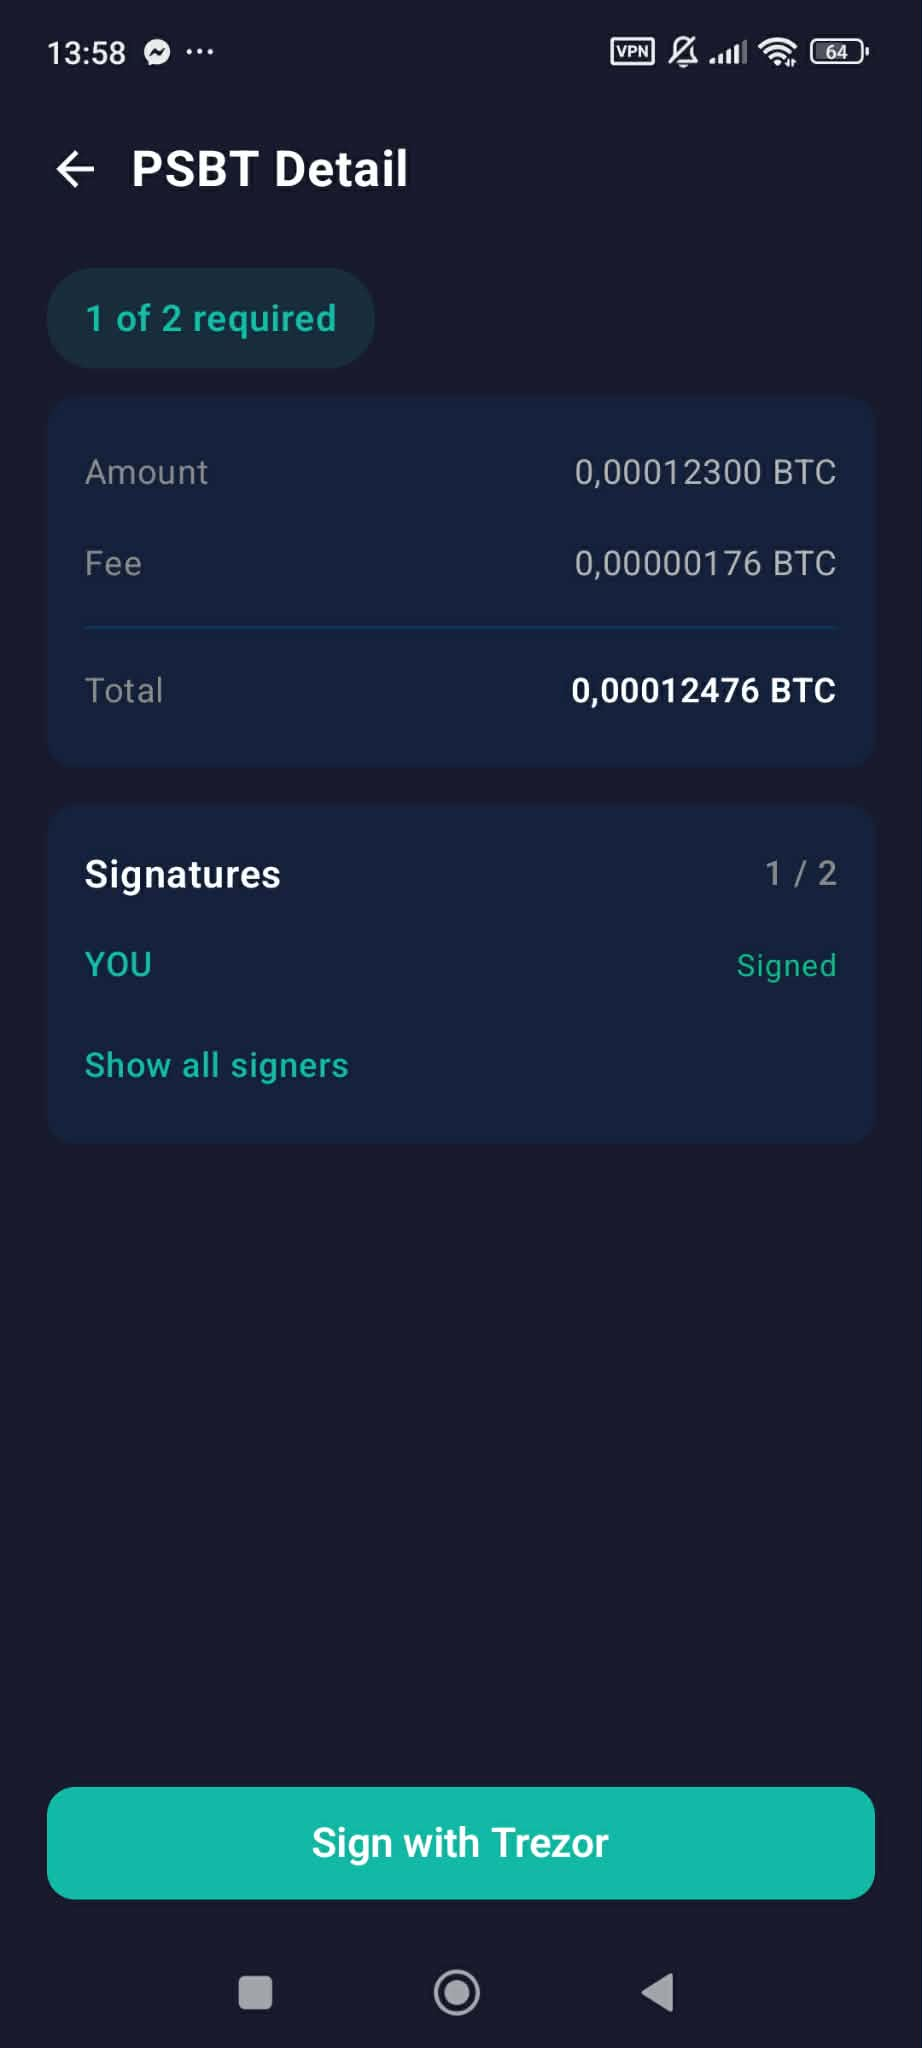
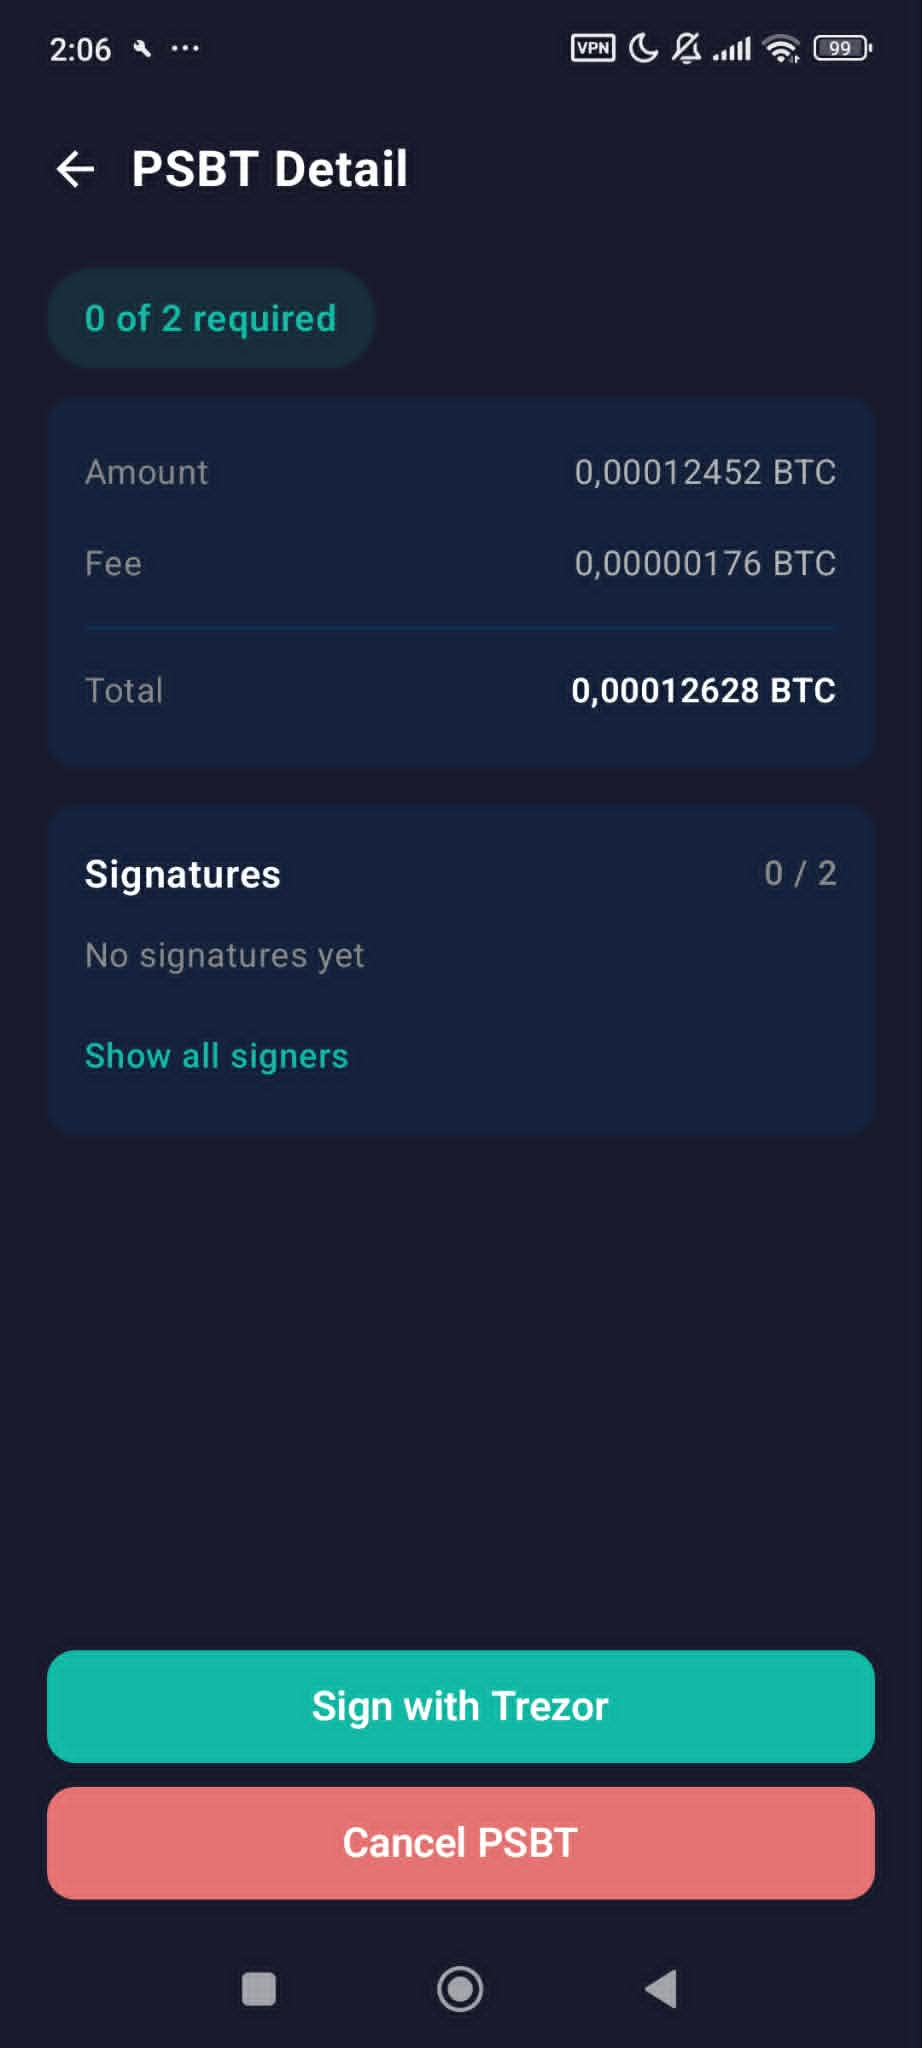
[fix] add new screen with cancel button

diff --git a/DOCS/thesis/priloha-struktura.tex b/DOCS/thesis/priloha-struktura.tex
@@ -1,0 +1,63 @@
+%%% Příloha A: Obsah elektronické přílohy
+
+\appendix
+\chapter{Obsah elektronické přílohy}
+\label{app:struktura}
+
+Elektronická příloha obsahuje kompletní zdrojové kódy aplikace potřebné
+pro její sestavení a~spuštění. Struktura kořenového adresáře je následující:
+
+\bigskip
+\begin{description}
+\item[\texttt{wallet-backend/}] Backendové mikroslužby implementované
+  v~jazyce Kotlin s~frameworkem Ktor. Adresář obsahuje:
+
+  \begin{description}
+  \item[\texttt{api-gateway/}] API Gateway -- vstupní bod pro mobilní
+    aplikaci, JWT autentizace, směrování požadavků na mikroslužby.
+  \item[\texttt{auth-service/}] Autentizační služba -- vydávání JWT
+    tokenů, správa identit zařízení.
+  \item[\texttt{wallet-registry/}] Správa peněženek -- import deskriptorů,
+    derivace adres, správa cosignerů.
+  \item[\texttt{explorer-service/}] Agregace dat -- zůstatky, historie
+    transakcí, UTXO pro konkrétní peněženku.
+  \item[\texttt{psbt-service/}] PSBT workflow -- tvorba, podepisování
+    a~broadcast transakcí.
+  \item[\texttt{blockchain-service/}] \hfill \\
+    Proxy k~blockchainovým API (Mempool.space, Blockstream Esplora).
+  \item[\texttt{price-service/}] Směnný kurz BTC vůči fiat měnám
+    (CoinGecko API).
+  \item[\texttt{docker-compose.yml}] Definice všech kontejnerů pro
+    spuštění celého backendu jedním příkazem
+    \texttt{docker compose up --build -d}.
+  \item[\texttt{init-db.sql}] Inicializační skript vytvářející databáze
+    při prvním spuštění.
+  \end{description}
+
+\item[\texttt{wallet-frontend/}] Mobilní aplikace pro Android
+  implementovaná v~jazyce Kotlin s~frameworkem Jetpack Compose. Klíčové
+  balíčky:
+
+  \begin{description}
+  \item[\texttt{core/api/}] HTTP klient a~repozitáře pro komunikaci
+    s~backendem.
+  \item[\texttt{core/trezor/}] Integrace s~hardwarovou peněženkou Trezor
+    prostřednictvím deeplink protokolu Trezor Connect.
+  \item[\texttt{core/session/}] Správa stavu přihlášení a~aktivní
+    peněženky.
+  \item[\texttt{feature/trezorconnect/}] Přihlašovací obrazovky --
+    připojení Trezoru a~výběr účtu.
+  \item[\texttt{feature/wallet/}] Hlavní funkcionalita -- dashboard,
+    odeslání a~příjem prostředků, coin control, multisig peněženky,
+    PSBT workflow.
+  \end{description}
+
+\item[\texttt{README.md}] Stručný popis projektu a~návod na sestavení.
+\end{description}
+
+\bigskip
+\noindent\textbf{Požadavky pro sestavení.}
+Pro spuštění backendu je potřeba Docker Engine a~Docker
+Compose~\cite{Docker}. Pro sestavení mobilní aplikace je potřeba Android
+Studio s~Gradle a~Android SDK (minimální API~24). Podrobný postup
+spuštění popisuje kapitola~\ref{chap:uzivatelska}.

diff --git a/DOCS/thesis/kap-related.tex b/DOCS/thesis/kap-related.tex
@@ -456,17 +456,17 @@ z~nich a~zdůvodňujeme volbu Trezoru.
 Trezor, vyvinutý českou společností SatoshiLabs, patří mezi nejrozšířenější
 hardwarové peněženky na trhu. Aktuální modelová řada zahrnuje několik zařízení
 -- od Trezor Safe 3 přes Safe 5 s~barevným dotykovým displejem až po nejnovější
-Safe 7, který jako první v~řadě podporuje bezdrátovou komunikaci
-prostřednictvím Bluetooth a~NFC. Starší modely se připojují výhradně přes USB.
-Všechna zařízení podporují protokol Bitcoin včetně SegWit a~multisig
-transakcí.
+Safe 7~\citep{TrezorSafe7} s~bezdrátovou Bluetooth konektivitou; starší
+modely se připojují výhradně přes USB. Všechna zařízení podporují protokol Bitcoin včetně SegWit
+a~multisig transakcí.
 
 Důležité je rozlišovat kompatibilitu s~mobilními zařízeními. Pro deeplink
 komunikaci zprostředkovanou aplikací Trezor Suite Mobile vyžadujeme modely
 z~aktuální řady Safe, konkrétně Trezor Safe~3, Safe~5 nebo Safe~7. Starší
-model \textbf{Trezor One} (první generace s~micro-USB konektorem) mobilní
-aplikaci nepodporuje a~lze jej použít pouze s~desktopovou verzí Trezor
-Suite, takže pro naši aplikaci není použitelný.
+model \textbf{Trezor One} (první generace s~micro-USB konektorem) sice
+s~aplikací Trezor Suite Mobile přes USB pracuje, ale deeplink rozhraní,
+na~kterém naše aplikace závisí, je primárně určené pro řadu Safe, takže
+pro naši aplikaci Trezor One použitelný není.
 
 Pro integraci s~aplikacemi třetích stran slouží rozhraní
 \textbf{Trezor Connect}~\citep{TrezorConnect}. Toto API poskytuje
@@ -634,10 +634,9 @@ klíčů s~možností testování podpisů (health check), kolaborativní podepi
 přes cloud synchronizaci a~podporu coin control. Nunchuk rovněž implementuje
 koncept \emph{inheritance planning} s~využitím časových zámků.
 
-\textbf{Omezení}: Pokročilé funkce Nunchuku, včetně kolaborativního
-podepisování, air-gapped klíčů a~inheritance planningu, jsou dostupné pouze
-v~rámci placeného předplatného (Nunchuk Premium). Bezplatná verze omezuje počet
-klíčů a~peněženek. Tento model předplatného může být překážkou pro uživatele,
+\textbf{Omezení}: Některé pokročilé funkce Nunchuku, jako jsou inheritance
+planning nebo asistovaný multisig se službou Nunchuk, jsou dostupné pouze
+v~rámci placeného předplatného. Tento model může být překážkou pro uživatele,
 kteří preferují plně otevřená řešení bez závislosti na službách třetí strany.
 Navíc cloudová synchronizace, byť end-to-end šifrovaná, přidává závislost
 na~externí infrastruktuře provozovatele.

diff --git a/DOCS/thesis/kap-navrh.tex b/DOCS/thesis/kap-navrh.tex
@@ -337,11 +337,11 @@ zaměnit nebo přidat podporu vlastního full node bez zásahu do zbytku systém
 \subsection{Cenový zdroj: CoinGecko API}
 
 Pro zobrazení aktuální hodnoty prostředků ve fiat měně používáme
-CoinGecko API~\cite{CoinGeckoAPI}. CoinGecko nabízí bezplatný tier s~dostatečným limitem požadavků
-(30~volání za minutu), podporuje desítky fiat měn a~vyžaduje pouze
-bezplatnou registraci s~Demo API klíčem. Alternativou by bylo
-CoinMarketCap API, které rovněž vyžaduje registraci, ale omezuje
-bezplatné použití přísnějšími limity (20~volání denně).
+CoinGecko API~\cite{CoinGeckoAPI}. CoinGecko nabízí bezplatný tier
+s~dostatečným limitem požadavků (30~volání za minutu na Demo API
+klíči), podporuje desítky fiat měn a~vyžaduje pouze bezplatnou
+registraci. Alternativou by bylo CoinMarketCap API, které pro
+bezplatný plán nabízí méně velkorysé limity.
 
 %% -----------------------------------------------------------------------
 \section{Bezpečnostní model}
@@ -644,14 +644,14 @@ jejich životního cyklu:
   a~\texttt{serialized\_\allowbreak tx} (kompletní serializovaná
   transakce po~podpisu, pokud je dostupná).
 
-\item[\texttt{psbt\_\allowbreak signatures}] -- Sleduje, kteří
+\item[\texttt{psbt\_\allowbreak signatures}] {\sloppy -- Sleduje, kteří
   cosigneři již PSBT podepsali. Obsahuje
   \texttt{psbt\_\allowbreak id} (cizí klíč na \texttt{psbts.id}),
   \texttt{device\_\allowbreak id} (zařízení, které podepsalo),
   \texttt{fingerprint} (otisk kořenového klíče)
   a~\texttt{cosigner\_\allowbreak index} (index cosignera v~rámci
   peněženky). Tato tabulka zabraňuje duplicitnímu podpisu stejným
-  cosignerem.
+  cosignerem.\par}
 \end{description}
 
 Parametry pro Trezor Connect ukládáme jako serializovaný JSON
@@ -1007,8 +1007,9 @@ a~per-output sekcemi s~derivačními cestami. Každá sekce je ukončena nulový
 Pro každý vstup zapisujeme čtyři typy záznamů:
 \begin{itemize}
 \item \texttt{PSBT\_IN\_NON\_WITNESS\_UTXO} -- celá předchozí transakce v~raw
-  formátu. Firmware Trezor od verze~2.4 vyžaduje tento záznam i~pro nativní
-  SegWit vstupy, aby mohl ověřit částky vstupů a~zobrazit správný poplatek.
+  formátu. Firmware Trezor od verze~2.3.1 vyžaduje tento záznam i~pro nativní
+  SegWit vstupy~\cite{TrezorFirmwareDocs}, aby mohl ověřit částky vstupů
+  a~zobrazit správný poplatek.
 \item \texttt{PSBT\_IN\_WITNESS\_UTXO} -- částka a~scriptPubKey utrácené UTXO.
 \item \texttt{PSBT\_IN\_WITNESS\_SCRIPT} -- witness skript multisig transakce
   (pouze pro P2WSH) se~všemi veřejnými klíči v~BIP-67 pořadí.

diff --git a/DOCS/thesis/kap-uzivatelska.tex b/DOCS/thesis/kap-uzivatelska.tex
@@ -454,9 +454,11 @@ podle BIP-67~\cite{BIP67}, a~uloží stav PSBT jako \uv{1 z~$M$ podpisů}.
 \includegraphics[height=0.22\textheight]{img/screen-psbt-detail.jpeg}\hfill
 \includegraphics[height=0.22\textheight]{img/screen-psbt-signers.jpeg}\hfill
 \includegraphics[height=0.22\textheight]{img/screen-psbt-broadcast.jpeg}
-\caption{PSBT workflow. Zleva: seznam PSBT transakcí; detail PSBT se stavem
-podpisů (1 ze~2); dialog signerů se stavy Signed~/~Pending a~příznakem
-\emph{YOU}; PSBT s~dosaženým prahem (2 ze~2) připravené k~broadcastu.}
+\caption{PSBT workflow. Zleva: seznam PSBT transakcí; detail PSBT
+bezprostředně po vytvoření (0 ze~2 podpisů) s~tlačítkem \emph{Cancel
+PSBT} pro stažení návrhu před podpisem; dialog signerů se stavy
+Signed~/~Pending a~příznakem \emph{YOU}; PSBT s~dosaženým prahem
+(2 ze~2) připravené k~broadcastu.}
 \label{fig:screen-psbt-flow}
 \end{figure}
 
@@ -478,6 +480,10 @@ odpovídající aktuálně přihlášenému účtu je označen příznakem \emph
 
 Pokud transakce čeká na podpis aktuálního cosignera, zobrazí se tlačítko
 \emph{Sign with Trezor}, které přesměruje uživatele do Trezor Suite Mobile.
+Návrh transakce, který ještě nebyl odeslán do sítě, lze tlačítkem
+\emph{Cancel PSBT} stáhnout -- backend záznam smaže a~uvolní zarezervované
+UTXO zpět k~použití v~jiné transakci. Po broadcastu se tlačítko skrývá,
+aby zůstal zachován audit záznam již odeslaných transakcí.
 
 \textbf{Doplnění podpisu dalším cosignerem.}
 Pro doplnění dalšího podpisu musí podepsat jiný cosigner. V~reálném nasazení

diff --git a/DOCS/thesis/kap-testovani.tex b/DOCS/thesis/kap-testovani.tex
@@ -187,7 +187,7 @@ opravy procházejí všechny multisig scénáře včetně transakcí s~více vst
 \textbf{Chybějící \texttt{PSBT\_IN\_NON\_WITNESS\_UTXO}.}
 Po upgradu firmware Trezoru začaly i~singlesig transakce, které dosud
 fungovaly bez problémů, končit chybou ,,Transaction has changed during
-signing``. Dohledali jsme, že firmware Trezoru od verze 2.4 vyžaduje, aby
+signing``. Dohledali jsme, že firmware Trezoru od verze 2.3.1 vyžaduje, aby
 PSBT pro každý vstup obsahoval kompletní předchozí transakci v~poli
 \texttt{PSBT\_IN\_NON\_WITNESS\_UTXO} -- a~to i~u~nativních SegWit vstupů
 typu P2WPKH, kde to BIP-174 striktně nevyžaduje. Důvodem je, že firmware
